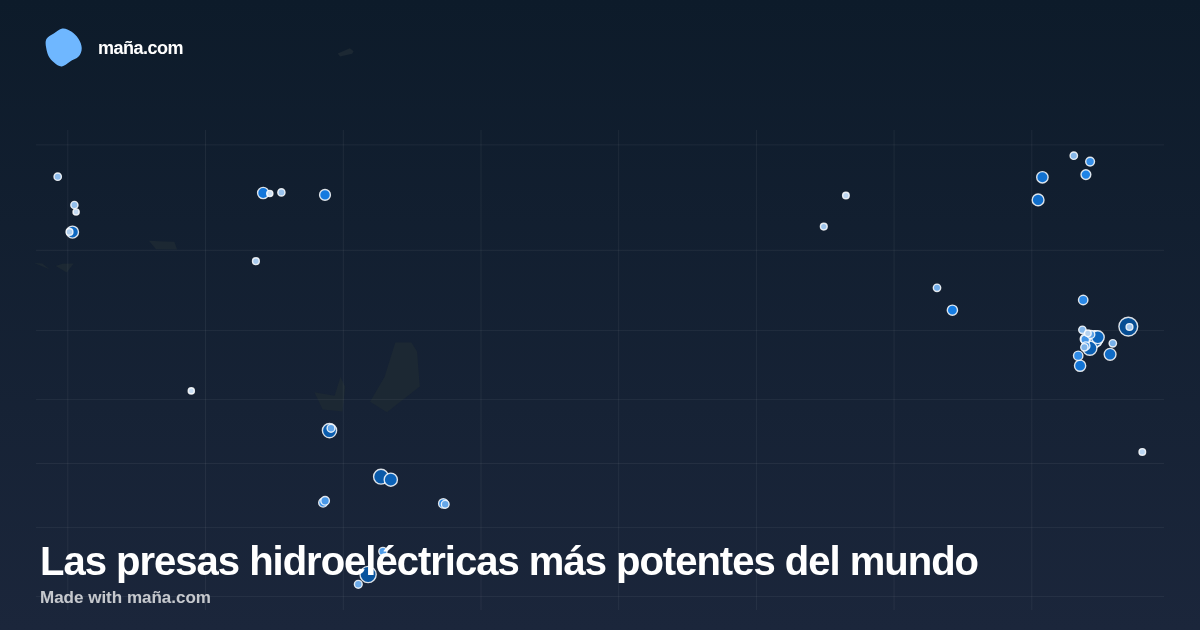
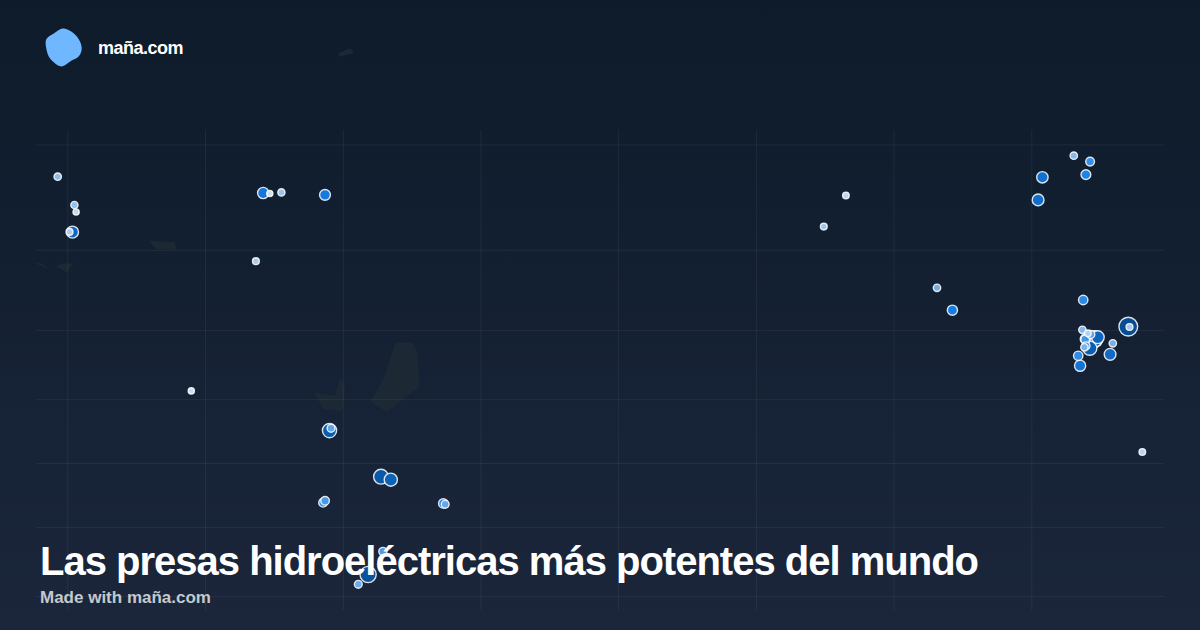
chore: generar landings estaticas y OG cards de mapas

Changed region(s): [[0.0308, 0.8746, 0.8017, 0.9048], [0.0308, 0.9349, 0.185, 0.9651], [0.0617, 0.0603, 0.1542, 0.0905]]

diff --git a/site/gallery/minimum-wage-by-country/index.html b/site/gallery/minimum-wage-by-country/index.html
@@ -91,7 +91,7 @@
       <a class="btn btn-ghost" href="https://twitter.com/intent/tweet?text=Salario%20m%C3%ADnimo%20por%20pa%C3%ADs%20%E2%80%94%20v%C3%ADa%20Ma%C3%B1a%20Maps&url=https%3A%2F%2Fma%C3%B1a.com%2Fgallery%2Fminimum-wage-by-country%2F" target="_blank" rel="noopener" onclick="if(window.trackEvent)window.trackEvent('share',{network:'x',source:'static_map'})">Compartir en X</a>
     </div>
     <div class="source"><strong>Fuente de datos:</strong> OIT/ILOSTAT (statutory nominal gross monthly minimum wage, Dec 2024) + WageIndicator Minimum Wage Database Dec 2024 (193 ONU + 14 territorios; 500+ fuentes oficiales) + Banco Mundial WDI PA.NUS.FCRF tipo de cambio oficial 2024 (LCU/USD) + convenios colectivos nacionales (Austria/Dinamarca/Finlandia/Islandia/Suecia/Noruega/Italia/Liechtenstein ~1500-1700 EUR o 14000-17000 SEK/DKK/NOK/ISK; Singapur PWM, EAU/Brunéi sectorial) y estimaciones sectoriales OIT para Eritrea/Etiopía/Somalia/Sudán del Sur/Ruanda/Uganda/Namibia/Tonga/Tuvalu/Nauru (umbral pobreza/salario medio sector menor) · 2024-12-01</div>
-    <section class="related"><h2>Más mapas</h2><ul><li><a href="/gallery/tallest-statues-world/">Las 17 estatuas más altas del mundo</a></li><li><a href="/gallery/linea-ave-madrid-sevilla-urda/">La línea de alta velocidad Madrid-Sevilla y el accidente de Urda</a></li><li><a href="/gallery/impact-craters-world/">Los cráteres de impacto más grandes de la Tierra</a></li><li><a href="/gallery/nuclear-reactors-world/">Los reactores nucleares del mundo</a></li></ul></section>
+    <section class="related"><h2>Más mapas</h2><ul><li><a href="/gallery/largest-hydro-dams-world/">Las presas hidroeléctricas más potentes del mundo</a></li><li><a href="/gallery/tallest-statues-world/">Las 17 estatuas más altas del mundo</a></li><li><a href="/gallery/linea-ave-madrid-sevilla-urda/">La línea de alta velocidad Madrid-Sevilla y el accidente de Urda</a></li><li><a href="/gallery/impact-craters-world/">Los cráteres de impacto más grandes de la Tierra</a></li></ul></section>
   </main>
   <footer class="site-footer" aria-label="Pie de página"><div class="site-footer__inner">
     <div class="site-footer__lead">

diff --git a/site/gallery/olympic-medals-world/index.html b/site/gallery/olympic-medals-world/index.html
@@ -91,7 +91,7 @@
       <a class="btn btn-ghost" href="https://twitter.com/intent/tweet?text=Los%20pa%C3%ADses%20con%20m%C3%A1s%20medallas%20ol%C3%ADmpicas%20de%20la%20historia%20%E2%80%94%20v%C3%ADa%20Ma%C3%B1a%20Maps&url=https%3A%2F%2Fma%C3%B1a.com%2Fgallery%2Folympic-medals-world%2F" target="_blank" rel="noopener" onclick="if(window.trackEvent)window.trackEvent('share',{network:'x',source:'static_map'})">Compartir en X</a>
     </div>
     <div class="source"><strong>Fuente de datos:</strong> Comité Olímpico Internacional (COI / Olympics.com) — tabla histórica de medallas de los Juegos Olímpicos de Verano hasta París 2024, recopilada en Wikipedia (All-time Olympic Games medal table, consultada 2026-10). Los equipos históricos (URSS, RDA, RFA, Checoslovaquia, Yugoslavia, Equipo Unificado, ROC, AIN…) se contabilizan por separado y no se atribuyen a los países sucesores. Geometrías: Natural Earth 110m/50m. · 2024-08-11</div>
-    <section class="related"><h2>Más mapas</h2><ul><li><a href="/gallery/tallest-statues-world/">Las 17 estatuas más altas del mundo</a></li><li><a href="/gallery/linea-ave-madrid-sevilla-urda/">La línea de alta velocidad Madrid-Sevilla y el accidente de Urda</a></li><li><a href="/gallery/impact-craters-world/">Los cráteres de impacto más grandes de la Tierra</a></li><li><a href="/gallery/nuclear-reactors-world/">Los reactores nucleares del mundo</a></li></ul></section>
+    <section class="related"><h2>Más mapas</h2><ul><li><a href="/gallery/largest-hydro-dams-world/">Las presas hidroeléctricas más potentes del mundo</a></li><li><a href="/gallery/tallest-statues-world/">Las 17 estatuas más altas del mundo</a></li><li><a href="/gallery/linea-ave-madrid-sevilla-urda/">La línea de alta velocidad Madrid-Sevilla y el accidente de Urda</a></li><li><a href="/gallery/impact-craters-world/">Los cráteres de impacto más grandes de la Tierra</a></li></ul></section>
   </main>
   <footer class="site-footer" aria-label="Pie de página"><div class="site-footer__inner">
     <div class="site-footer__lead">

diff --git a/site/gallery/water-sanitation-access-world/index.html b/site/gallery/water-sanitation-access-world/index.html
@@ -91,7 +91,7 @@
       <a class="btn btn-ghost" href="https://twitter.com/intent/tweet?text=Acceso%20a%20agua%20potable%20y%20saneamiento%20por%20pa%C3%ADs%20%E2%80%94%20v%C3%ADa%20Ma%C3%B1a%20Maps&url=https%3A%2F%2Fma%C3%B1a.com%2Fgallery%2Fwater-sanitation-access-world%2F" target="_blank" rel="noopener" onclick="if(window.trackEvent)window.trackEvent('share',{network:'x',source:'static_map'})">Compartir en X</a>
     </div>
     <div class="source"><strong>Fuente de datos:</strong> World Bank — People using at least basic drinking water services (% of population). Indicator SH.H2O.BASW.ZS; People using at least basic sanitation services (% of population). Indicator SH.STA.BASS.ZS. Datos WHO/UNICEF JMP vía World Bank. https://data.worldbank.org/indicator/SH.H2O.BASW.ZS · 2024-12-31</div>
-    <section class="related"><h2>Más mapas</h2><ul><li><a href="/gallery/tallest-statues-world/">Las 17 estatuas más altas del mundo</a></li><li><a href="/gallery/linea-ave-madrid-sevilla-urda/">La línea de alta velocidad Madrid-Sevilla y el accidente de Urda</a></li><li><a href="/gallery/impact-craters-world/">Los cráteres de impacto más grandes de la Tierra</a></li><li><a href="/gallery/nuclear-reactors-world/">Los reactores nucleares del mundo</a></li></ul></section>
+    <section class="related"><h2>Más mapas</h2><ul><li><a href="/gallery/largest-hydro-dams-world/">Las presas hidroeléctricas más potentes del mundo</a></li><li><a href="/gallery/tallest-statues-world/">Las 17 estatuas más altas del mundo</a></li><li><a href="/gallery/linea-ave-madrid-sevilla-urda/">La línea de alta velocidad Madrid-Sevilla y el accidente de Urda</a></li><li><a href="/gallery/impact-craters-world/">Los cráteres de impacto más grandes de la Tierra</a></li></ul></section>
   </main>
   <footer class="site-footer" aria-label="Pie de página"><div class="site-footer__inner">
     <div class="site-footer__lead">

diff --git a/site/gallery/tourism-arrivals-world/index.html b/site/gallery/tourism-arrivals-world/index.html
@@ -91,7 +91,7 @@
       <a class="btn btn-ghost" href="https://twitter.com/intent/tweet?text=Pa%C3%ADses%20que%20m%C3%A1s%20reciben%20turistas%20internacionales%20%E2%80%94%20v%C3%ADa%20Ma%C3%B1a%20Maps&url=https%3A%2F%2Fma%C3%B1a.com%2Fgallery%2Ftourism-arrivals-world%2F" target="_blank" rel="noopener" onclick="if(window.trackEvent)window.trackEvent('share',{network:'x',source:'static_map'})">Compartir en X</a>
     </div>
     <div class="source"><strong>Fuente de datos:</strong> UN Tourism (OMT) — Base de datos de estadísticas de turismo, indicador INBD_TRIP_TOTL_TOTL_TOUR (inbound trips, descarga de diciembre de 2025) + World Tourism Barometer (enero 2026, datos 2024). Geometrías: Natural Earth (vía population-by-country). https://www.unwto.org/tourism-statistics · 2024-12-31</div>
-    <section class="related"><h2>Más mapas</h2><ul><li><a href="/gallery/tallest-statues-world/">Las 17 estatuas más altas del mundo</a></li><li><a href="/gallery/linea-ave-madrid-sevilla-urda/">La línea de alta velocidad Madrid-Sevilla y el accidente de Urda</a></li><li><a href="/gallery/impact-craters-world/">Los cráteres de impacto más grandes de la Tierra</a></li><li><a href="/gallery/nuclear-reactors-world/">Los reactores nucleares del mundo</a></li></ul></section>
+    <section class="related"><h2>Más mapas</h2><ul><li><a href="/gallery/largest-hydro-dams-world/">Las presas hidroeléctricas más potentes del mundo</a></li><li><a href="/gallery/tallest-statues-world/">Las 17 estatuas más altas del mundo</a></li><li><a href="/gallery/linea-ave-madrid-sevilla-urda/">La línea de alta velocidad Madrid-Sevilla y el accidente de Urda</a></li><li><a href="/gallery/impact-craters-world/">Los cráteres de impacto más grandes de la Tierra</a></li></ul></section>
   </main>
   <footer class="site-footer" aria-label="Pie de página"><div class="site-footer__inner">
     <div class="site-footer__lead">

diff --git a/site/gallery/linea-ave-madrid-sevilla-urda/index.html b/site/gallery/linea-ave-madrid-sevilla-urda/index.html
@@ -91,7 +91,7 @@
       <a class="btn btn-ghost" href="https://twitter.com/intent/tweet?text=La%20l%C3%ADnea%20de%20alta%20velocidad%20Madrid-Sevilla%20y%20el%20accidente%20de%20Urda%20%E2%80%94%20v%C3%ADa%20Ma%C3%B1a%20Maps&url=https%3A%2F%2Fma%C3%B1a.com%2Fgallery%2Flinea-ave-madrid-sevilla-urda%2F" target="_blank" rel="noopener" onclick="if(window.trackEvent)window.trackEvent('share',{network:'x',source:'static_map'})">Compartir en X</a>
     </div>
     <div class="source"><strong>Fuente de datos:</strong> OpenStreetMap contributors: relación 1254828 «AVE Madrid - Sevilla» (route=train, service=high_speed), consultada el 29 de octubre de 2026; geometría de la vía y distancia acumulada calculadas sobre la relación. Datos del accidente: Ministerio de Transportes, Gobierno de Castilla-La Mancha y RTVE (28-29 de octubre de 2026). · 2026-10-29</div>
-    <section class="related"><h2>Más mapas</h2><ul><li><a href="/gallery/tallest-statues-world/">Las 17 estatuas más altas del mundo</a></li><li><a href="/gallery/impact-craters-world/">Los cráteres de impacto más grandes de la Tierra</a></li><li><a href="/gallery/nuclear-reactors-world/">Los reactores nucleares del mundo</a></li><li><a href="/gallery/alcohol-consumption-world/">Consumo de alcohol per cápita por país</a></li></ul></section>
+    <section class="related"><h2>Más mapas</h2><ul><li><a href="/gallery/largest-hydro-dams-world/">Las presas hidroeléctricas más potentes del mundo</a></li><li><a href="/gallery/tallest-statues-world/">Las 17 estatuas más altas del mundo</a></li><li><a href="/gallery/impact-craters-world/">Los cráteres de impacto más grandes de la Tierra</a></li><li><a href="/gallery/nuclear-reactors-world/">Los reactores nucleares del mundo</a></li></ul></section>
   </main>
   <footer class="site-footer" aria-label="Pie de página"><div class="site-footer__inner">
     <div class="site-footer__lead">

diff --git a/site/gallery/most-visited-museums-world/index.html b/site/gallery/most-visited-museums-world/index.html
@@ -91,7 +91,7 @@
       <a class="btn btn-ghost" href="https://twitter.com/intent/tweet?text=Los%20museos%20m%C3%A1s%20visitados%20del%20mundo%20%E2%80%94%20v%C3%ADa%20Ma%C3%B1a%20Maps&url=https%3A%2F%2Fma%C3%B1a.com%2Fgallery%2Fmost-visited-museums-world%2F" target="_blank" rel="noopener" onclick="if(window.trackEvent)window.trackEvent('share',{network:'x',source:'static_map'})">Compartir en X</a>
     </div>
     <div class="source"><strong>Fuente de datos:</strong> The Art Newspaper (marzo 2026), TEA Global Experience Index 2024 (octubre 2025), National Cultural Heritage Administration de China, Smithsonian Institution y ALVA, recopilado en Wikipedia «List of most-visited museums»; visitantes anuales 2024–2025. Coordenadas verificadas en Wikipedia y Wikidata. · 2025-12-31</div>
-    <section class="related"><h2>Más mapas</h2><ul><li><a href="/gallery/tallest-statues-world/">Las 17 estatuas más altas del mundo</a></li><li><a href="/gallery/linea-ave-madrid-sevilla-urda/">La línea de alta velocidad Madrid-Sevilla y el accidente de Urda</a></li><li><a href="/gallery/impact-craters-world/">Los cráteres de impacto más grandes de la Tierra</a></li><li><a href="/gallery/nuclear-reactors-world/">Los reactores nucleares del mundo</a></li></ul></section>
+    <section class="related"><h2>Más mapas</h2><ul><li><a href="/gallery/largest-hydro-dams-world/">Las presas hidroeléctricas más potentes del mundo</a></li><li><a href="/gallery/tallest-statues-world/">Las 17 estatuas más altas del mundo</a></li><li><a href="/gallery/linea-ave-madrid-sevilla-urda/">La línea de alta velocidad Madrid-Sevilla y el accidente de Urda</a></li><li><a href="/gallery/impact-craters-world/">Los cráteres de impacto más grandes de la Tierra</a></li></ul></section>
   </main>
   <footer class="site-footer" aria-label="Pie de página"><div class="site-footer__inner">
     <div class="site-footer__lead">

diff --git a/site/gallery/rainy-days-by-city-world/index.html b/site/gallery/rainy-days-by-city-world/index.html
@@ -91,7 +91,7 @@
       <a class="btn btn-ghost" href="https://twitter.com/intent/tweet?text=D%C3%ADas%20de%20lluvia%20medios%20al%20a%C3%B1o%20por%20ciudad%20%E2%80%94%20v%C3%ADa%20Ma%C3%B1a%20Maps&url=https%3A%2F%2Fma%C3%B1a.com%2Fgallery%2Frainy-days-by-city-world%2F" target="_blank" rel="noopener" onclick="if(window.trackEvent)window.trackEvent('share',{network:'x',source:'static_map'})">Compartir en X</a>
     </div>
     <div class="source"><strong>Fuente de datos:</strong> Organización Meteorológica Mundial (OMM/WMO), Climate Normals 1991–2020, y NOAA NCEI, recopilados de los cuadros climáticos de Wikipedia (estaciones oficiales de cada ciudad); días con precipitación ≥ 1 mm y precipitación anual acumulada. Coordenadas verificadas en Wikipedia. · 2020-12-31</div>
-    <section class="related"><h2>Más mapas</h2><ul><li><a href="/gallery/tallest-statues-world/">Las 17 estatuas más altas del mundo</a></li><li><a href="/gallery/linea-ave-madrid-sevilla-urda/">La línea de alta velocidad Madrid-Sevilla y el accidente de Urda</a></li><li><a href="/gallery/impact-craters-world/">Los cráteres de impacto más grandes de la Tierra</a></li><li><a href="/gallery/nuclear-reactors-world/">Los reactores nucleares del mundo</a></li></ul></section>
+    <section class="related"><h2>Más mapas</h2><ul><li><a href="/gallery/largest-hydro-dams-world/">Las presas hidroeléctricas más potentes del mundo</a></li><li><a href="/gallery/tallest-statues-world/">Las 17 estatuas más altas del mundo</a></li><li><a href="/gallery/linea-ave-madrid-sevilla-urda/">La línea de alta velocidad Madrid-Sevilla y el accidente de Urda</a></li><li><a href="/gallery/impact-craters-world/">Los cráteres de impacto más grandes de la Tierra</a></li></ul></section>
   </main>
   <footer class="site-footer" aria-label="Pie de página"><div class="site-footer__inner">
     <div class="site-footer__lead">

diff --git a/site/gallery/meat-consumption-world/index.html b/site/gallery/meat-consumption-world/index.html
@@ -91,7 +91,7 @@
       <a class="btn btn-ghost" href="https://twitter.com/intent/tweet?text=Consumo%20de%20carne%20per%20c%C3%A1pita%20por%20pa%C3%ADs%20%E2%80%94%20v%C3%ADa%20Ma%C3%B1a%20Maps&url=https%3A%2F%2Fma%C3%B1a.com%2Fgallery%2Fmeat-consumption-world%2F" target="_blank" rel="noopener" onclick="if(window.trackEvent)window.trackEvent('share',{network:'x',source:'static_map'})">Compartir en X</a>
     </div>
     <div class="source"><strong>Fuente de datos:</strong> FAO — Food Balances (2025), vía Our World in Data (ourworldindata.org/grapher/meat-supply-per-person): suministro de carne disponible para consumo, kg por persona y año; excluye pescado y no corrige el desperdicio doméstico. Geometrías: Natural Earth, vía population-by-country. · 2023-12-31</div>
-    <section class="related"><h2>Más mapas</h2><ul><li><a href="/gallery/tallest-statues-world/">Las 17 estatuas más altas del mundo</a></li><li><a href="/gallery/linea-ave-madrid-sevilla-urda/">La línea de alta velocidad Madrid-Sevilla y el accidente de Urda</a></li><li><a href="/gallery/impact-craters-world/">Los cráteres de impacto más grandes de la Tierra</a></li><li><a href="/gallery/nuclear-reactors-world/">Los reactores nucleares del mundo</a></li></ul></section>
+    <section class="related"><h2>Más mapas</h2><ul><li><a href="/gallery/largest-hydro-dams-world/">Las presas hidroeléctricas más potentes del mundo</a></li><li><a href="/gallery/tallest-statues-world/">Las 17 estatuas más altas del mundo</a></li><li><a href="/gallery/linea-ave-madrid-sevilla-urda/">La línea de alta velocidad Madrid-Sevilla y el accidente de Urda</a></li><li><a href="/gallery/impact-craters-world/">Los cráteres de impacto más grandes de la Tierra</a></li></ul></section>
   </main>
   <footer class="site-footer" aria-label="Pie de página"><div class="site-footer__inner">
     <div class="site-footer__lead">

diff --git a/site/gallery/bibliotecas-barcelona/index.html b/site/gallery/bibliotecas-barcelona/index.html
@@ -91,7 +91,7 @@
       <a class="btn btn-ghost" href="https://twitter.com/intent/tweet?text=Bibliotecas%20p%C3%BAblicas%20de%20Barcelona%20%E2%80%94%20v%C3%ADa%20Ma%C3%B1a%20Maps&url=https%3A%2F%2Fma%C3%B1a.com%2Fgallery%2Fbibliotecas-barcelona%2F" target="_blank" rel="noopener" onclick="if(window.trackEvent)window.trackEvent('share',{network:'x',source:'static_map'})">Compartir en X</a>
     </div>
     <div class="source"><strong>Fuente de datos:</strong> Ajuntament de Barcelona — Opèndata: Dades de la xarxa de biblioteques de la ciutat de Barcelona (dades-xarxa-biblioteques-catalunya, 2025). Direcciones cruzadas con el inventario «Espais amb biblioteca o sala d&#39;estudi i museístics» (culturailleure-bibliotequesimuseus). · 2026-09-29</div>
-    <section class="related"><h2>Más mapas</h2><ul><li><a href="/gallery/tallest-statues-world/">Las 17 estatuas más altas del mundo</a></li><li><a href="/gallery/linea-ave-madrid-sevilla-urda/">La línea de alta velocidad Madrid-Sevilla y el accidente de Urda</a></li><li><a href="/gallery/impact-craters-world/">Los cráteres de impacto más grandes de la Tierra</a></li><li><a href="/gallery/nuclear-reactors-world/">Los reactores nucleares del mundo</a></li></ul></section>
+    <section class="related"><h2>Más mapas</h2><ul><li><a href="/gallery/largest-hydro-dams-world/">Las presas hidroeléctricas más potentes del mundo</a></li><li><a href="/gallery/tallest-statues-world/">Las 17 estatuas más altas del mundo</a></li><li><a href="/gallery/linea-ave-madrid-sevilla-urda/">La línea de alta velocidad Madrid-Sevilla y el accidente de Urda</a></li><li><a href="/gallery/impact-craters-world/">Los cráteres de impacto más grandes de la Tierra</a></li></ul></section>
   </main>
   <footer class="site-footer" aria-label="Pie de página"><div class="site-footer__inner">
     <div class="site-footer__lead">

diff --git a/site/gallery/airports-world/index.html b/site/gallery/airports-world/index.html
@@ -91,7 +91,7 @@
       <a class="btn btn-ghost" href="https://twitter.com/intent/tweet?text=Los%20aeropuertos%20m%C3%A1s%20transitados%20del%20mundo%20%E2%80%94%20v%C3%ADa%20Ma%C3%B1a%20Maps&url=https%3A%2F%2Fma%C3%B1a.com%2Fgallery%2Fairports-world%2F" target="_blank" rel="noopener" onclick="if(window.trackEvent)window.trackEvent('share',{network:'x',source:'static_map'})">Compartir en X</a>
     </div>
     <div class="source"><strong>Fuente de datos:</strong> Airports Council International (ACI World), «World’s Busiest Airports» — ranking anual de tráfico de pasajeros (2025), recopilado en Wikipedia «List of busiest airports by passenger traffic»; coordenadas de cada aeropuerto verificadas en Wikidata/Wikipedia. · 2025</div>
-    <section class="related"><h2>Más mapas</h2><ul><li><a href="/gallery/tallest-statues-world/">Las 17 estatuas más altas del mundo</a></li><li><a href="/gallery/linea-ave-madrid-sevilla-urda/">La línea de alta velocidad Madrid-Sevilla y el accidente de Urda</a></li><li><a href="/gallery/impact-craters-world/">Los cráteres de impacto más grandes de la Tierra</a></li><li><a href="/gallery/nuclear-reactors-world/">Los reactores nucleares del mundo</a></li></ul></section>
+    <section class="related"><h2>Más mapas</h2><ul><li><a href="/gallery/largest-hydro-dams-world/">Las presas hidroeléctricas más potentes del mundo</a></li><li><a href="/gallery/tallest-statues-world/">Las 17 estatuas más altas del mundo</a></li><li><a href="/gallery/linea-ave-madrid-sevilla-urda/">La línea de alta velocidad Madrid-Sevilla y el accidente de Urda</a></li><li><a href="/gallery/impact-craters-world/">Los cráteres de impacto más grandes de la Tierra</a></li></ul></section>
   </main>
   <footer class="site-footer" aria-label="Pie de página"><div class="site-footer__inner">
     <div class="site-footer__lead">

diff --git a/site/gallery/gini-index-world/index.html b/site/gallery/gini-index-world/index.html
@@ -91,7 +91,7 @@
       <a class="btn btn-ghost" href="https://twitter.com/intent/tweet?text=Desigualdad%20de%20ingresos%20(%C3%ADndice%20Gini)%20mundial%20por%20pa%C3%ADs%20%E2%80%94%20v%C3%ADa%20Ma%C3%B1a%20Maps&url=https%3A%2F%2Fma%C3%B1a.com%2Fgallery%2Fgini-index-world%2F" target="_blank" rel="noopener" onclick="if(window.trackEvent)window.trackEvent('share',{network:'x',source:'static_map'})">Compartir en X</a>
     </div>
     <div class="source"><strong>Fuente de datos:</strong> World Bank — Poverty and Inequality Platform (PIP, 2026), vía Our World in Data (ourworldindata.org/grapher/gini-coefficient-wb): Gini coefficient, ingreso/consumo tras impuestos y transferencias. Geometrías: Natural Earth 110m/50m. · 2025-12-31</div>
-    <section class="related"><h2>Más mapas</h2><ul><li><a href="/gallery/tallest-statues-world/">Las 17 estatuas más altas del mundo</a></li><li><a href="/gallery/linea-ave-madrid-sevilla-urda/">La línea de alta velocidad Madrid-Sevilla y el accidente de Urda</a></li><li><a href="/gallery/impact-craters-world/">Los cráteres de impacto más grandes de la Tierra</a></li><li><a href="/gallery/nuclear-reactors-world/">Los reactores nucleares del mundo</a></li></ul></section>
+    <section class="related"><h2>Más mapas</h2><ul><li><a href="/gallery/largest-hydro-dams-world/">Las presas hidroeléctricas más potentes del mundo</a></li><li><a href="/gallery/tallest-statues-world/">Las 17 estatuas más altas del mundo</a></li><li><a href="/gallery/linea-ave-madrid-sevilla-urda/">La línea de alta velocidad Madrid-Sevilla y el accidente de Urda</a></li><li><a href="/gallery/impact-craters-world/">Los cráteres de impacto más grandes de la Tierra</a></li></ul></section>
   </main>
   <footer class="site-footer" aria-label="Pie de página"><div class="site-footer__inner">
     <div class="site-footer__lead">

diff --git a/site/gallery/daily-steps-world/index.html b/site/gallery/daily-steps-world/index.html
@@ -91,7 +91,7 @@
       <a class="btn btn-ghost" href="https://twitter.com/intent/tweet?text=Pasos%20medios%20diarios%20por%20pa%C3%ADs%20%E2%80%94%20v%C3%ADa%20Ma%C3%B1a%20Maps&url=https%3A%2F%2Fma%C3%B1a.com%2Fgallery%2Fdaily-steps-world%2F" target="_blank" rel="noopener" onclick="if(window.trackEvent)window.trackEvent('share',{network:'x',source:'static_map'})">Compartir en X</a>
     </div>
     <div class="source"><strong>Fuente de datos:</strong> Althoff, T. et al. (2017) — «Large-scale physical activity data reveal worldwide activity inequality», Nature 547, 336–339 (Supplementary Table 1; pasos medios diarios medidos con sensores de smartphone, app Argus/Azumio). DOI: https://doi.org/10.1038/nature23018 · 2017-07-10</div>
-    <section class="related"><h2>Más mapas</h2><ul><li><a href="/gallery/tallest-statues-world/">Las 17 estatuas más altas del mundo</a></li><li><a href="/gallery/linea-ave-madrid-sevilla-urda/">La línea de alta velocidad Madrid-Sevilla y el accidente de Urda</a></li><li><a href="/gallery/impact-craters-world/">Los cráteres de impacto más grandes de la Tierra</a></li><li><a href="/gallery/nuclear-reactors-world/">Los reactores nucleares del mundo</a></li></ul></section>
+    <section class="related"><h2>Más mapas</h2><ul><li><a href="/gallery/largest-hydro-dams-world/">Las presas hidroeléctricas más potentes del mundo</a></li><li><a href="/gallery/tallest-statues-world/">Las 17 estatuas más altas del mundo</a></li><li><a href="/gallery/linea-ave-madrid-sevilla-urda/">La línea de alta velocidad Madrid-Sevilla y el accidente de Urda</a></li><li><a href="/gallery/impact-craters-world/">Los cráteres de impacto más grandes de la Tierra</a></li></ul></section>
   </main>
   <footer class="site-footer" aria-label="Pie de página"><div class="site-footer__inner">
     <div class="site-footer__lead">
